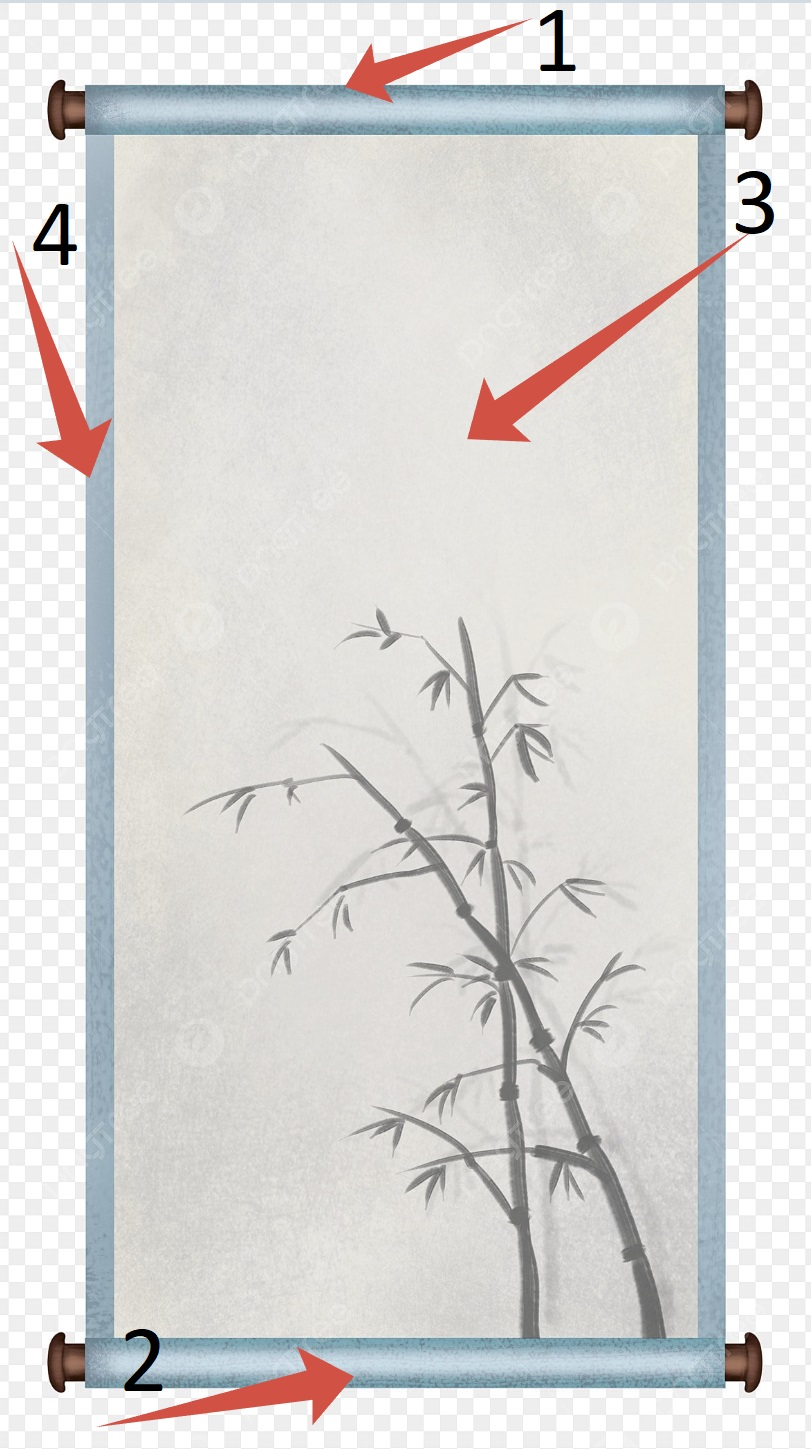
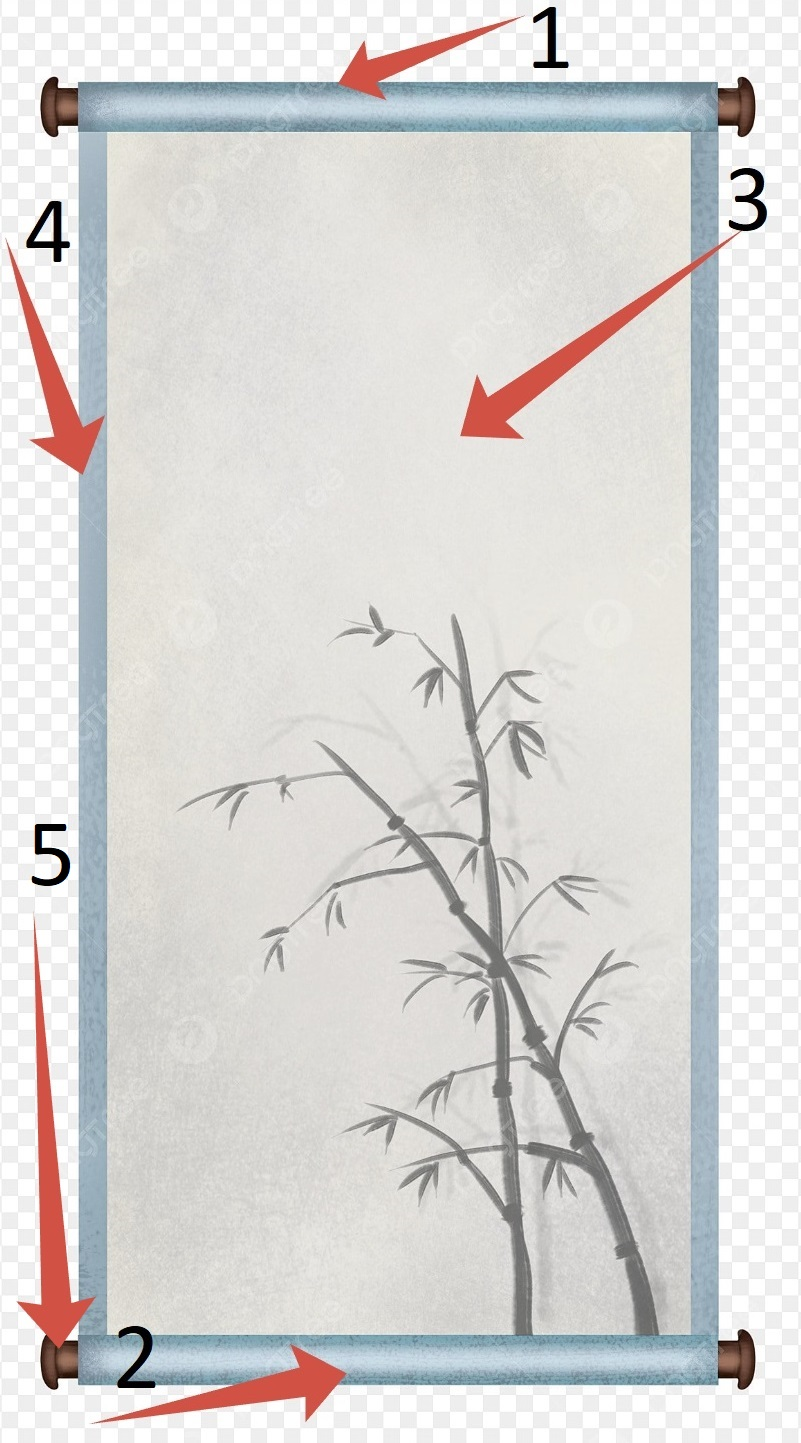
add

diff --git a/technical_task_scroll/tech_task_for_modeling_scroll.md b/technical_task_scroll/tech_task_for_modeling_scroll.md
@@ -1,18 +1,18 @@
 # Тз на дизайн и моделирование волшебного свитка с подставкой (Декоративный)
-Задача разработать дизайн и смоделировать "волшебный свиток" и к нему подставку.
+Задача разработать дизайн и смоделировать "волшебный свиток" вместе с "подставкой" под него.   
 
 ### По итогу должно получиться.   
 1) Модель с текстурами готовая к импорту в игровой движок (unreal engine 5)   
-2) Ряд скриншотов с отрандеренной моделью.   
-3) Предоставить оригинальные модели в vbx с текстурами.   
+2) Ряд скриншотов с отрандеренными моделями и текстурами. (5-6 штук), с разных ракурсов. Обазятельно фронт, перспектива.        
+3) Предоставить оригинальные модели в vbx с текстурами.     
 
 #### Требования к модели   
 1) Ограничения на полигоны нет.   
-2) High poly модель приветствуется.
-3) Высокий уровень детализации и текстур.  
-4) Импортируется в игровой движок unreal engine 5
+2) High poly модель приветствуется.   
+3) Высокий уровень детализации и текстур.    
+4) Импортируется в игровой движок unreal engine 5   
 
-#### Примеры аналогичных работ по уровню.    
+#### Примеры аналогичных работ по уровню.  
 https://www.artstation.com/artwork/DAGOJ0   
 https://www.artstation.com/artwork/lxgK65   
 https://www.artstation.com/artwork/EvLzB0   
@@ -27,7 +27,7 @@ https://www.artstation.com/artwork/04zYQe
 2 - Нижняя планка   
 3 - Активная зона - часть на которой будут рисунки (ее ничего не должно перекрывать)   
 4 - Обрамление   
-
+5 - Наконечники   
 <img src="https://github.com/SeeNotEvil/design_task/blob/main/technical_task_scroll/sctructure.jpg" width="400"/>   
 
 ### Размеры
@@ -37,6 +37,7 @@ https://www.artstation.com/artwork/04zYQe
 2 - Верхняя планка - радиус 4 см - ширина 24 см   
 3 - Активная область 20.3 см - высота 28.4 см. Она плотно прилегает к планкам сверху и снизу   
 4 - Обрамление 0.85 см по краям   
+5 - Наконечники добавляются индивидуально (3-5 см) к планке   
 
 #### Активная область   
 28.4 см   
@@ -54,6 +55,11 @@ https://www.artstation.com/artwork/04zYQe
 0.85 см   
 <img src="https://github.com/SeeNotEvil/design_task/blob/main/technical_task_scroll/size_border.jpg" width="400"/>   
 
+#### Наконечники
+Добавляем наконечники на все планки нижнию и верхнию, по краям справа и слева. Наконечники добавляются к каждой планке сверх ее длины (25см). То есть 25см + 3-5см на каждой из сторон.
+Длину наконечников подобрать по дизайну индивидуально.    
+<img src="https://github.com/SeeNotEvil/design_task/blob/main/technical_task_scroll/plank_border_2.jpg" width="400"/>   
+
 ### Внешний вид   
 Свиток должен быть вертикальный, в развернутом виде. Активная зона у свитка прямая.     
 На вверху верхней планки должна быть небольшая фигура дракона. Дракон не должен перекрывать активную зону свитка.   
@@ -67,7 +73,6 @@ https://www.artstation.com/artwork/04zYQe
 
 #### Планка (верхняя и нижняя)
 Нужно соблюдая такую же цветовую гамму и стиль, задизайнить планку.   
-
 <img src="https://github.com/SeeNotEvil/design_task/blob/main/technical_task_scroll/plank_scroll_3.jpg" width="400"/> 
 <img src="https://github.com/SeeNotEvil/design_task/blob/main/technical_task_scroll/plank_scroll_6.jpg" width="400"/>     
 
@@ -78,11 +83,6 @@ https://www.artstation.com/artwork/04zYQe
 #### Наконечники  
 На планки помимо обрамления добавляем драконьи наконечники.   
 <img src="https://github.com/SeeNotEvil/design_task/blob/main/technical_task_scroll/plank_border.jpg" width="400"/>  
-
-Добавляем наконечники на все планки нижнию и верхнию, по краям справа и слева. Наконечники добавляются к каждой планке сверх ее длины (25см). То есть 25см + 3-4см на каждой из сторон.
-Длину наконечников подобрать по дизайну индивидуально. Что бы смотрелось красиво и органично.     
-
-<img src="https://github.com/SeeNotEvil/design_task/blob/main/technical_task_scroll/plank_border_2.jpg" width="400"/>   
 
 #### Дракон.
 Расположен дракон на верхней планке. Он не должен перекрывать активную зону свитка и быть не сильно громоздким.    
